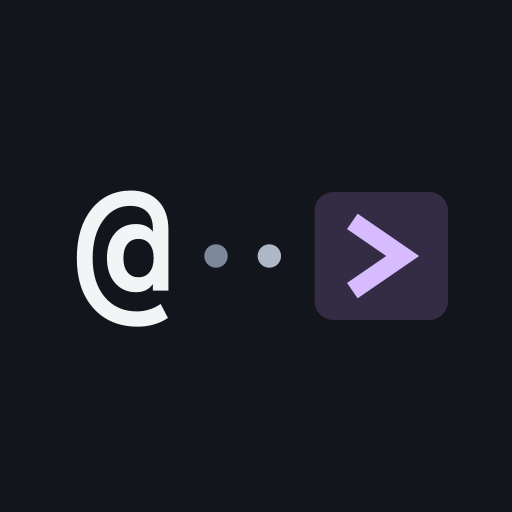
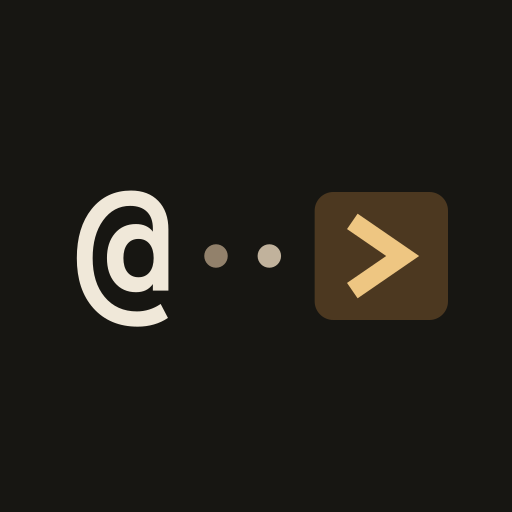
feat: refine the warm theme and splash screen

diff --git a/web/style.css b/web/style.css
@@ -1,17 +1,12 @@
 :root {
     color-scheme: dark;
     font-family: system-ui, sans-serif;
-    --background: #12151b;
-    --foreground: #f2f4f6;
-    --panel: #1c222b;
-    --border: #525e70;
-    --muted: #adb7c5;
-    --accent: #d6bbff;
-    --button-background: #252c38;
-    --selected-background: #342b44;
-    --action-border: #8a7aa5;
-    background: var(--background);
-    color: var(--foreground);
+    background: #171612;
+    color: #f0e8d9;
+    --panel: #222019;
+    --border: #514637;
+    --muted: #c1b29c;
+    --accent: #eec682;
     --button-min-height: 44px;
     --mono: "IBM Plex Mono", ui-monospace, monospace;
 }
@@ -128,7 +123,7 @@ a { color: var(--muted); font-size: 0.75rem; }
     height: 5px;
     margin-top: 3px;
     border-radius: 2px;
-    background: linear-gradient(to right, var(--meter-color) var(--fill), #303a49 var(--fill));
+    background: linear-gradient(to right, var(--meter-color) var(--fill), #433b2e var(--fill));
 }
 #hud-stats {
     display: var(--hud-stats-display, grid);
@@ -164,7 +159,7 @@ a { color: var(--muted); font-size: 0.75rem; }
     flex: none;
     padding: 0 0.25rem;
     border-radius: 4px;
-    background: #303a49;
+    background: #433b2e;
     font: 0.6875rem/17px system-ui, sans-serif;
     white-space: nowrap;
 }
@@ -241,12 +236,12 @@ dt { color: var(--muted); }
     height: var(--map-button-size);
     padding: 0;
     border: 1px solid var(--border);
-    background: color-mix(in srgb, var(--panel) 80%, transparent);
+    background: rgb(34 32 25 / 80%);
     color: var(--accent);
     font-size: 1.25rem;
 }
 :is(#open-menu, #map-keyboard-toggle, #open-map-lists):enabled:active,
-.in-world #zoom button:enabled:active { background: var(--selected-background); }
+.in-world #zoom button:enabled:active { background: #4c3820; }
 :is(#open-map-lists, #map-keyboard-toggle)[aria-expanded="true"] { border-color: var(--accent); }
 
 #map-lists {
@@ -268,8 +263,8 @@ dt { color: var(--muted); }
     background: var(--panel);
     box-shadow: 0 0.25rem 1rem rgb(0 0 0 / 60%);
 }
-#map-lists button { min-height: var(--map-button-size); background: color-mix(in srgb, var(--panel) 80%, transparent); }
-#map-lists button:enabled:active { background: var(--selected-background); }
+#map-lists button { min-height: var(--map-button-size); background: rgb(34 32 25 / 80%); }
+#map-lists button:enabled:active { background: #4c3820; }
 .in-world #map-lists { inset-block-end: 0.25rem; max-height: calc(100% - 0.5rem); }
 
 #map-status, #monster-health {
@@ -291,7 +286,7 @@ dt { color: var(--muted); }
     transition: background-color 180ms ease-out;
 }
 #map-status > p { display: flex; gap: 0.5rem; margin: 0; }
-#map-status.speed-changed { background-color: var(--selected-background); }
+#map-status.speed-changed { background-color: #483925; }
 .map-status-label { color: var(--accent); }
 #speed.fast { color: #cbe7a4; }
 #speed.slow { color: #ffd18d; }
@@ -304,7 +299,7 @@ dt { color: var(--muted); }
     width: min(16rem, calc(100% - 2 * (var(--map-button-size) + 0.5rem)));
     padding: 0.375rem 0.5rem;
     border-radius: 0.375rem;
-    background: color-mix(in srgb, var(--panel) 90%, transparent);
+    background: rgb(34 32 25 / 90%);
 }
 #monster-name { display: block; margin-bottom: 0.25rem; overflow-wrap: anywhere; font: 0.8125rem/1.2 system-ui, sans-serif; }
 #monster-health-bar {
@@ -314,7 +309,7 @@ dt { color: var(--muted); }
     gap: 2px;
     height: 6px;
 }
-#monster-health-bar > span { height: 100%; border-radius: 1px; background: #303a49; }
+#monster-health-bar > span { height: 100%; border-radius: 1px; background: #494233; }
 #monster-health-bar > .filled { background: var(--monster-health-color); }
 #monster-health.unknown #monster-health-bar > span { height: 2px; background: var(--muted); }
 
@@ -397,7 +392,7 @@ dt { color: var(--muted); }
     position: relative;
     margin: auto 0 0;
     padding: 0.875em 0.75em;
-    background: var(--background);
+    background: #171612;
     font: 500 min(1.125rem, 5.25cqi)/1.08 var(--mono);
     font-variant-ligatures: none;
     letter-spacing: 0.13em;
@@ -414,7 +409,7 @@ dt { color: var(--muted); }
 .splash-map::after { inset: auto 0 0 auto; border-width: 0 1px 1px 0; }
 .splash-map-art {
     display: block;
-    background: radial-gradient(ellipse, #687281, #3f4651 74%);
+    background: radial-gradient(ellipse, #84735b, var(--border) 74%);
     background-clip: text;
     color: transparent;
 }
@@ -423,15 +418,15 @@ dt { color: var(--muted); }
     font-weight: 700;
     transform: scale(1.5);
 }
-.splash-map-player { color: var(--foreground); }
+.splash-map-player { color: #f0e8d9; }
 .splash-map-path { color: var(--muted); }
 .splash-map-stairs {
     border-radius: 0.15em;
-    background: var(--selected-background);
+    background: #4c3820;
     color: var(--accent);
     text-align: center;
 }
-#splash-screen h3 { margin: 0; color: var(--foreground); font-size: 1.75rem; }
+#splash-screen h3 { margin: 0; color: var(--accent); font-size: 1.75rem; }
 .splash-subtitle { margin-block-start: 0.375rem; color: var(--muted); font-size: 0.875rem; }
 #update-app {
     min-height: 44px;
@@ -439,7 +434,7 @@ dt { color: var(--muted); }
     max-inline-size: 100%;
     margin-block-start: 0.75rem;
     padding-inline: 0.75rem;
-    color: var(--foreground);
+    color: var(--accent);
     overflow: hidden;
     text-overflow: ellipsis;
     white-space: nowrap;
@@ -619,7 +614,7 @@ dt { color: var(--muted); }
     border: 0;
     border-top: 1px solid var(--border);
     border-radius: 0 0 0.4375rem 0.4375rem;
-    background: #171b22;
+    background: #191813;
 }
 .shop-view #journal { padding-block: 0.25rem; }
 .shop-view #paused-message { max-height: var(--journal-text-height); overscroll-behavior: contain; }
@@ -636,7 +631,7 @@ dt { color: var(--muted); }
     background-color: transparent;
     box-shadow: inset 0 0 0 1px color-mix(in srgb, var(--border) 35%, transparent);
 }
-.in-world #journal:active { background: var(--selected-background); }
+.in-world #journal:active { background: #4c3820; }
 
 #message-pause {
     position: absolute;
@@ -671,7 +666,7 @@ main:not(.in-world) :is(.view:has(#journal:not([hidden])), .shop-view) #message-
     min-height: 36px;
     padding-block-end: 0.125rem;
     padding-inline: 0.625rem;
-    border-color: var(--action-border);
+    border-color: #9c7749;
 }
 .in-world #message-pause {
     position: static;
@@ -789,7 +784,7 @@ fieldset { min-width: 0; margin: 0; padding: 0; border: 0; }
 }
 #center-caption { font: 0.625rem/1.05 system-ui, sans-serif; }
 .key-row { grid-template-columns: repeat(2, minmax(0, 1fr)); }
-#stop-action { grid-column: 1 / -1; border-color: var(--accent); background: var(--selected-background); }
+#stop-action { grid-column: 1 / -1; border-color: var(--accent); background: #4c3820; }
 #play-keys { grid-template-columns: repeat(6, minmax(0, 1fr)); }
 #play-keys button { min-width: 0; }
 #quick-actions, #primary-actions { display: contents; }
@@ -809,8 +804,8 @@ fieldset { min-width: 0; margin: 0; padding: 0; border: 0; }
     gap: 2px;
 }
 #movement-mode button { min-width: 0; padding: 0; font-size: 0.75rem; }
-#movement-mode button[aria-pressed="true"] { color: var(--background); background: var(--accent); }
-.direction-pad.running-mode button { border-color: var(--accent); background: var(--selected-background); }
+#movement-mode button[aria-pressed="true"] { color: #171612; background: var(--accent); }
+.direction-pad.running-mode button { border-color: var(--accent); background: #493821; }
 button:has(> .key-hint) {
     display: grid;
     grid-template-rows: 1fr auto;
@@ -875,13 +870,13 @@ button > .key-hint {
 #target-types { gap: 0; }
 #target-monster { border-radius: 0.375rem 0 0 0.375rem; }
 #target-location { border-radius: 0 0.375rem 0.375rem 0; border-left: 0; }
-#target-types [aria-pressed="true"] { color: var(--background); background: var(--accent); }
+#target-types [aria-pressed="true"] { color: #171612; background: var(--accent); }
 #target-types [aria-pressed="true"] .key-hint { color: inherit; }
 #terminal-keys { grid-template-columns: minmax(0, 1fr) 60px minmax(0, 1fr); }
-:is(#confirm-key, #confirm-target, #confirm-name, #confirm-text, #character-name-done) { border-color: var(--action-border); }
+:is(#confirm-key, #confirm-target, #confirm-name, #confirm-text, #character-name-done) { border-color: #9c7749; }
 .keyboard-icon { vertical-align: middle; }
 #keyboard-toggle { color: var(--accent); }
-#keyboard-toggle[aria-expanded="true"] { color: var(--background); background: var(--accent); }
+#keyboard-toggle[aria-expanded="true"] { color: #171612; background: var(--accent); }
 #terminal-keys > [hidden] { display: block !important; visibility: hidden; }
 #terminal-keys > :is(#edit-history, #birth-start-over, #target-inspect, #nearest, #character-dump)[hidden],
 #terminal-keys.birth-confirmation-controls > [hidden],
@@ -932,7 +927,7 @@ main:has(#option-digits:not([hidden])) #keyboard-toggle { display: none !importa
 .keyboard-row button { flex: 1; min-width: 0; padding-inline: 0; }
 .keyboard-row .space-key { flex: 1.5; }
 .keyboard-utility-row button { min-width: min(44px, 15%); }
-:is(.keyboard-row, #keyboard-utilities) button[aria-pressed="true"] { color: var(--background); background: var(--accent); }
+:is(.keyboard-row, #keyboard-utilities) button[aria-pressed="true"] { color: #171612; background: var(--accent); }
 
 .menu-screen { overflow: auto; overscroll-behavior: contain; border-top: 1px solid var(--border); }
 .menu-screen.scroll-menu-items {
@@ -980,7 +975,7 @@ main:has(#option-digits:not([hidden])) #keyboard-toggle { display: none !importa
     gap: 0.25rem;
     padding: 0.25rem;
     border-radius: 0.375rem;
-    background: var(--background);
+    background: #171612;
     text-align: center;
 }
 .character-rows { font-size: 0.875rem; }
@@ -1015,7 +1010,7 @@ main:has(#option-digits:not([hidden])) #keyboard-toggle { display: none !importa
 #outcome-stats .character-rows > div { padding-block: 0.25rem; }
 #outcome-date { display: block; margin-top: 0.4rem; color: var(--muted); font-size: 0.75rem; }
 #outcome-actions { grid-template-columns: repeat(2, minmax(0, 1fr)); }
-#outcome-actions button:first-child { border-color: var(--action-border); }
+#outcome-actions button:first-child { border-color: #9c7749; }
 #terminal-keys.results-controls { grid-template-columns: repeat(2, minmax(0, 1fr)); }
 #terminal-keys.results-controls > [hidden] { display: none !important; }
 #terminal-keys.results-controls:not(:has(#cancel-key:not([hidden]))) #confirm-key,
@@ -1048,7 +1043,7 @@ main:has(#option-digits:not([hidden])) #keyboard-toggle { display: none !importa
     color: var(--accent);
     font-size: 0.8125rem;
 }
-.character-effects li { padding: 0.125rem 0.375rem; border-radius: 0.25rem; background: var(--button-background); }
+.character-effects li { padding: 0.125rem 0.375rem; border-radius: 0.25rem; background: #332a1d; }
 .character-effects li.alert { color: #ffb3a0; }
 .character-detail { border: 1px solid var(--border); border-radius: 0.375rem; }
 .character-detail summary {
@@ -1066,7 +1061,7 @@ main:has(#option-digits:not([hidden])) #keyboard-toggle { display: none !importa
 .birth-attributes {
     width: 100%;
     border-collapse: collapse;
-    background: var(--background);
+    background: #171612;
     font: 0.875rem/1.3 var(--mono);
     text-align: right;
 }
@@ -1148,7 +1143,7 @@ main.inscribing #text-title { font-size: 1rem; }
     font: inherit;
     text-align: start;
 }
-.visible-list-entry[aria-current="true"] { border-color: var(--accent); background: var(--selected-background); }
+.visible-list-entry[aria-current="true"] { border-color: var(--accent); background: #4c3820; }
 .visible-list-details { min-width: 4rem; padding-inline: 0.5rem; }
 .visible-list-symbol { font-family: var(--mono); }
 .visible-list-name { white-space: pre-wrap; }
@@ -1158,7 +1153,7 @@ main.inscribing #text-title { font-size: 1rem; }
     padding: 0.65rem;
     border: 1px solid var(--border);
     border-radius: 0.375rem;
-    background: var(--background);
+    background: #171612;
     font: 1.0625rem var(--mono);
     white-space: pre-wrap;
     overflow-wrap: anywhere;
@@ -1167,7 +1162,7 @@ main.inscribing #text-title { font-size: 1rem; }
     width: 100%; min-width: 0; color: inherit;
 }
 #edit-value .caret { border-inline-start: 2px solid var(--accent); }
-#edit-value .selection { color: var(--background); background: var(--accent); }
+#edit-value .selection { color: #171612; background: var(--accent); }
 .menu-summary, .menu-empty { padding: 0.5rem 0.625rem; color: var(--muted); font-size: 0.8125rem; }
 .menu-sections, #menu-actions { display: flex; flex-wrap: wrap; gap: 0.25rem; }
 .menu-sections { padding: 0.25rem; }
@@ -1192,7 +1187,7 @@ main.inscribing #text-title { font-size: 1rem; }
     text-align: start;
     overflow-wrap: anywhere;
 }
-.menu-rows button[aria-current="true"] { border-color: var(--accent); background: var(--selected-background); }
+.menu-rows button[aria-current="true"] { border-color: var(--accent); background: #4c3820; }
 .save-slot-row { display: grid; grid-template-columns: minmax(0, 1fr) 44px; gap: 0.25rem; }
 .save-slot-row .delete-save {
     grid-template-columns: 1fr;
@@ -1215,7 +1210,7 @@ main.inscribing #text-title { font-size: 1rem; }
     grid-template-columns: minmax(0, 1fr);
     font-size: 0.9375rem;
 }
-#outcome-actions button[aria-current="true"] { background: var(--selected-background); }
+#outcome-actions button[aria-current="true"] { background: #4c3820; }
 #menu-actions:is(.birth-actions, .save-slot-actions) { flex-wrap: nowrap; }
 #menu-actions:is(.birth-actions, .save-slot-actions) button {
     flex-basis: 0;
@@ -1258,7 +1253,7 @@ main > #stat-method-character {
     grid-template-columns: repeat(5, minmax(0, 1fr));
     padding: 0.25rem;
     border-radius: 0.375rem;
-    background: var(--button-background);
+    background: #302b23;
     text-align: center;
 }
 #birth-adjustments .character-rows > div { display: block; }
@@ -1315,7 +1310,7 @@ main:not(.starting):has(:is(#birth-stats, #name-screen, #text-screen, #knowledge
     border-bottom: 1px solid var(--border);
     font-size: 0.875rem;
 }
-.birth-stat.current { background: var(--button-background); }
+.birth-stat.current { background: #332a1d; }
 .rolled-stats .birth-stat { grid-template-columns: minmax(0, 1fr) 3.75rem; min-height: 44px; }
 .birth-history { display: grid; gap: 0.375rem; padding: 0.5rem 0.625rem 0.75rem; }
 .birth-history-heading {
@@ -1338,7 +1333,7 @@ main:not(.starting):has(:is(#birth-stats, #name-screen, #text-screen, #knowledge
 :is(#birth-history-value, #text-history-value) {
     max-height: max(3.5rem, calc(var(--visible-viewport-height, 100dvh) - 11rem));
 }
-#birth-history-done { border-color: var(--action-border); }
+#birth-history-done { border-color: #a27d46; }
 .birth-stat small { display: block; color: var(--muted); }
 .birth-stat button { padding: 0; font-size: 1.125rem; }
 .birth-stat-value { text-align: center; font-variant-numeric: tabular-nums; }
@@ -1351,7 +1346,7 @@ button, #download-result {
     padding: 0 0.2rem;
     border: 1px solid var(--border);
     border-radius: 0.375rem;
-    background: var(--button-background);
+    background: #332a1d;
     color: inherit;
     font: 500 0.8125rem system-ui, sans-serif;
     touch-action: manipulation;
@@ -1362,7 +1357,7 @@ button, #download-result {
     text-decoration: none;
 }
 button:enabled { cursor: pointer; }
-button:enabled:active { background: var(--selected-background); }
+button:enabled:active { background: #4c3820; }
 button:disabled, button[aria-disabled="true"] { opacity: 0.5; }
 :focus-visible { outline: 2px solid var(--accent); outline-offset: -2px; }
 
@@ -1419,7 +1414,7 @@ main.picker-expanded .controls { flex: 1; max-height: 100%; }
     padding-inline: max(0.25rem, env(safe-area-inset-left)) max(0.25rem, env(safe-area-inset-right));
     border: 0;
     color: inherit;
-    background: var(--background);
+    background: #171612;
 }
 #message-dialog[open] { display: grid; grid-template-rows: minmax(0, 1fr) auto; gap: 0.25rem; }
 #message-dialog::backdrop { background: rgb(0 0 0 / 65%); }
@@ -1439,7 +1434,7 @@ main.picker-expanded .controls { flex: 1; max-height: 100%; }
 #messages.scrolled { mask-image: linear-gradient(transparent, black 0.75rem); }
 #messages li { font-size: 0.875rem; line-height: 1.45; overflow-wrap: anywhere; }
 #messages li + li { margin-top: 0.5rem; }
-#messages mark { background: #ffe080; color: var(--background); }
+#messages mark { background: #ffe080; color: #171612; }
 #message-dialog form button { width: 100%; }
 .large-text button { font-size: 0.9375rem; }
 .large-text .menu-rows button { font-size: 1rem; }

diff --git a/web/index.html b/web/index.html
@@ -3,7 +3,7 @@
 <head>
     <meta charset="utf-8">
     <meta name="viewport" content="width=device-width, initial-scale=1, viewport-fit=cover">
-    <meta name="theme-color" content="#12151b">
+    <meta name="theme-color" content="#171612">
     <title>PocketAngband</title>
     <link rel="manifest" href="manifest.webmanifest">
     <link rel="icon" href="icon-192.png" type="image/png">
@@ -44,17 +44,17 @@
                 <pre id="terminal"></pre>
             </div>
             <section id="splash-screen" class="menu-screen" aria-labelledby="view-title" hidden>
-                <pre class="splash-map" aria-hidden="true"><span class="splash-map-art">                 #·····
-                 #·####
-             #####·###
- ########    #·······#
- #······######·###···#
-##··········<span class="splash-map-player">@</span><span class="splash-map-path">···</span><span class="splash-map-stairs">&gt;</span>#···##
-········##########·····
-##······#        #···#·
- ####·########   #####·
-    #········#       #·
-    ########·#       #·</span></pre>
+                <pre class="splash-map" aria-hidden="true"><span class="splash-map-art">#######·#
+      #·#
+      #·#
+    ###·##########
+    #<span class="splash-map-player">@</span><span class="splash-map-path">··········</span><span class="splash-map-stairs">&gt;</span>#
+    ###########·##
+         ######·#####
+         #··········###
+         #·············
+##########··········##·
+·······················</span></pre>
                 <div>
                     <h3>PocketAngband __POCKETANGBAND_VERSION__</h3>
                     <p class="splash-subtitle">Angband <span id="angband-version"></span></p>
